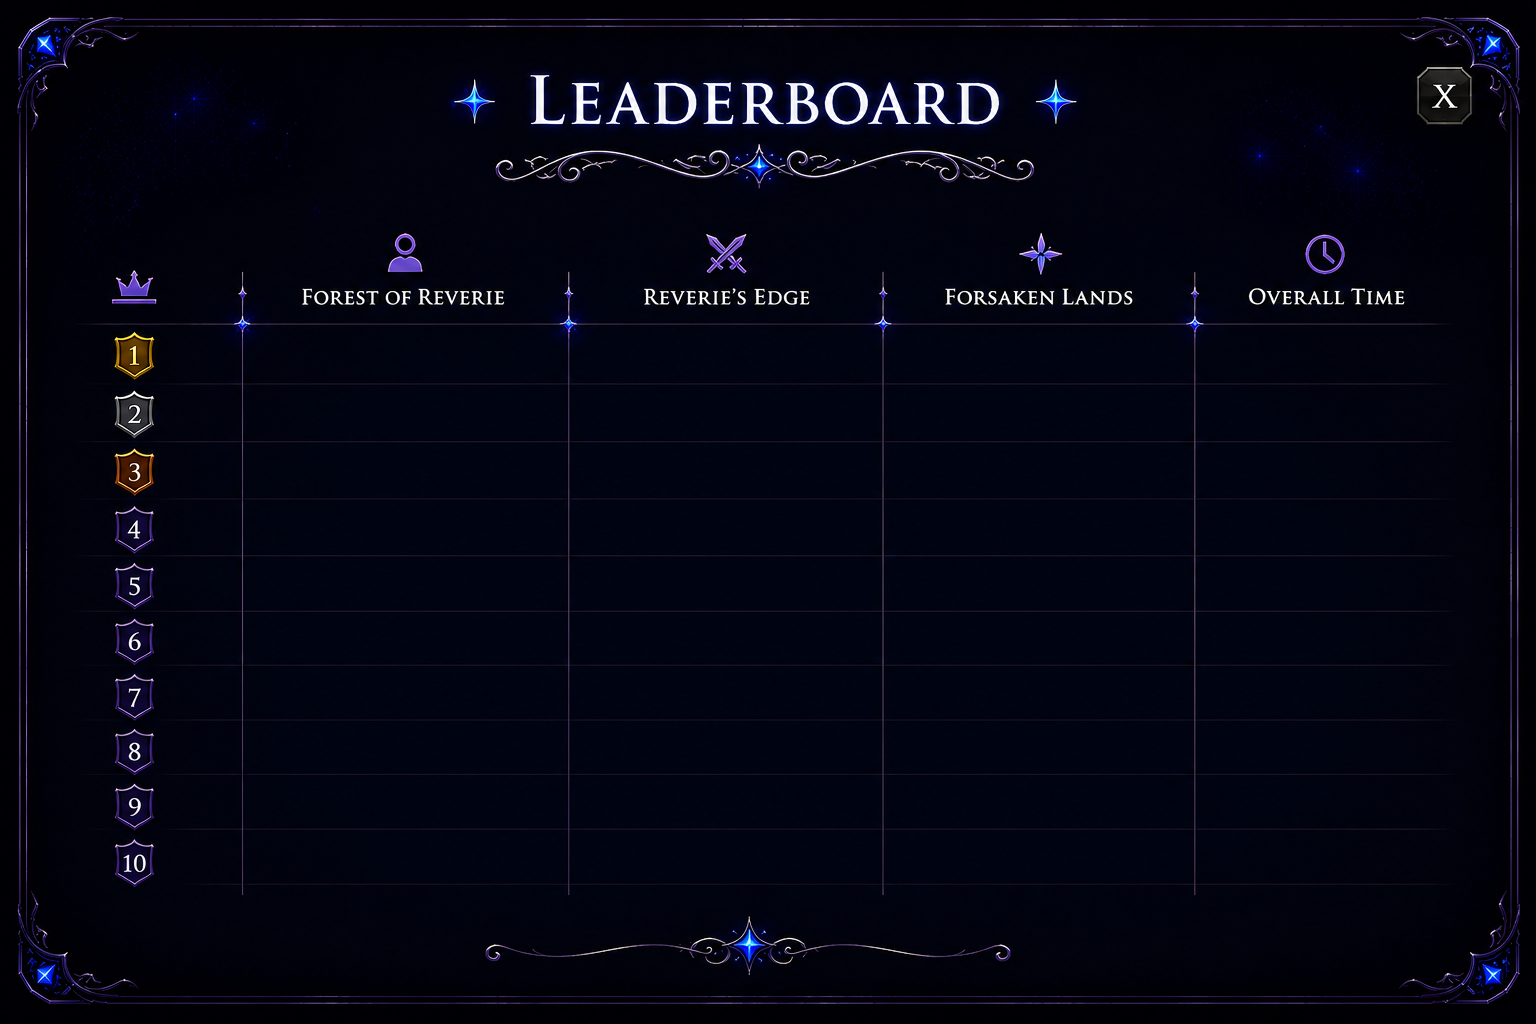
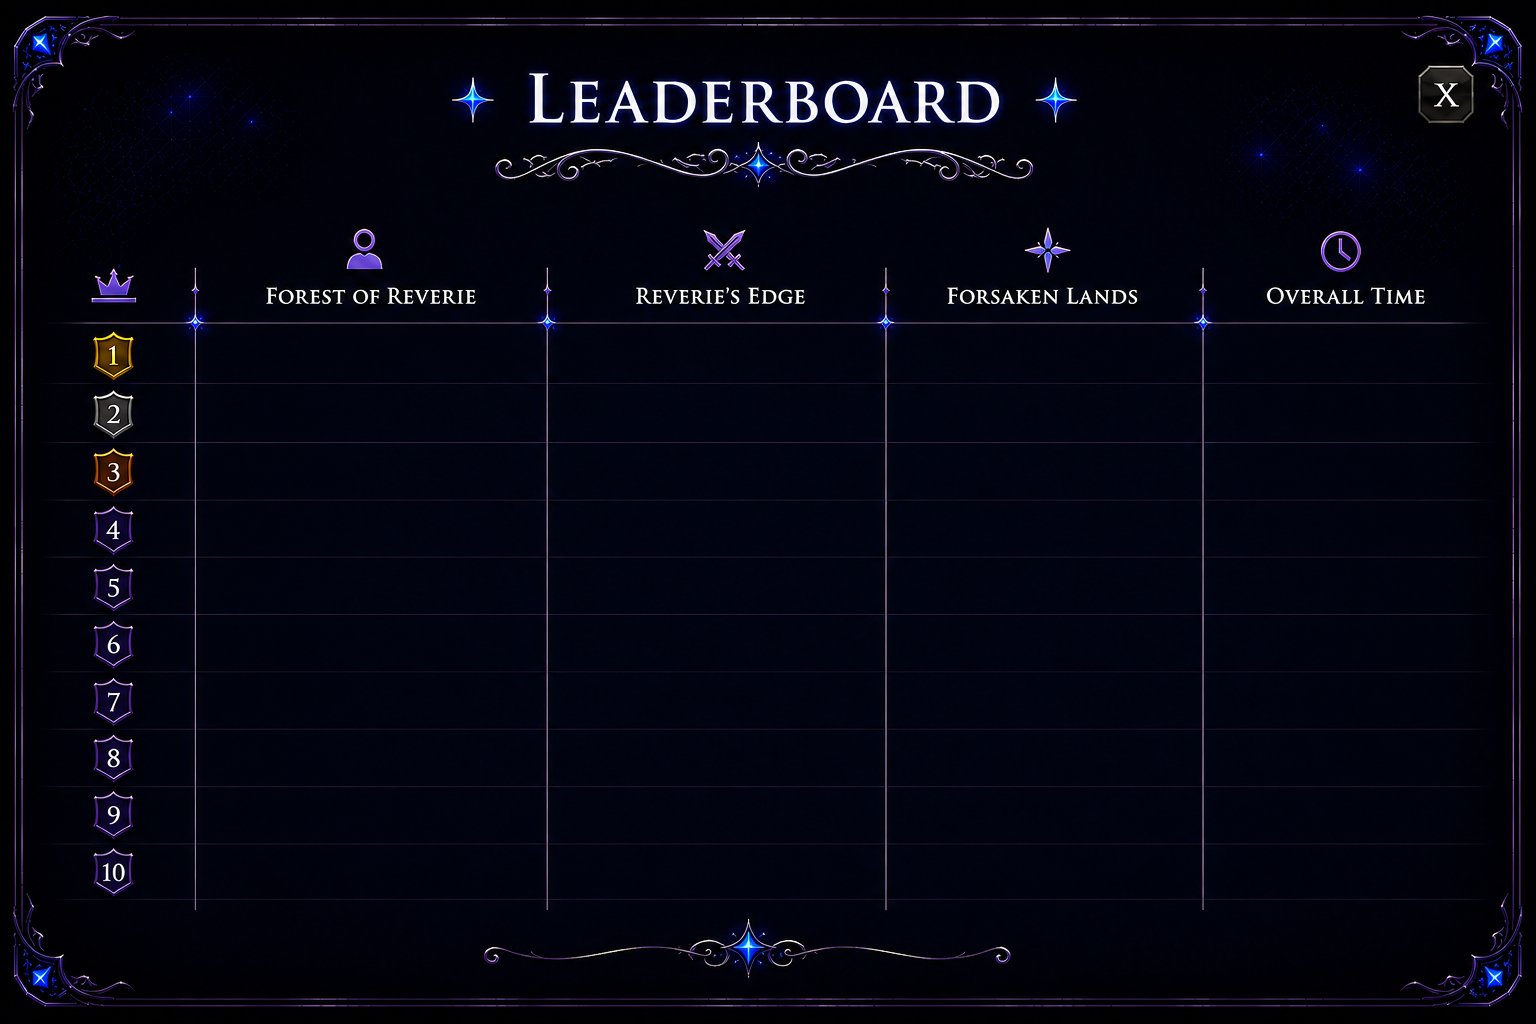
leaderboard
leaderboard

diff --git a/src/com/ror/engine/GameWindowGraphics.java b/src/com/ror/engine/GameWindowGraphics.java
@@ -657,6 +657,11 @@ final class GameWindowGraphics {
         private static final int EDGE_CENTER_X = 742;
         private static final int FORSAKEN_CENTER_X = 1056;
         private static final int OVERALL_CENTER_X = 1330;
+        private static final int RANK_CELL_WIDTH = 76;
+        private static final int FOREST_CELL_WIDTH = 270;
+        private static final int EDGE_CELL_WIDTH = 224;
+        private static final int FORSAKEN_CELL_WIDTH = 224;
+        private static final int OVERALL_CELL_WIDTH = 198;
 
         private final BufferedImage leaderboardImage;
         private final Rectangle closeBounds = new Rectangle();
@@ -792,7 +797,8 @@ final class GameWindowGraphics {
                 drawCellText(g2, String.valueOf(index + 1),
                         drawX + (int) Math.round(RANK_CENTER_X * scaleX),
                         rowCenterY + (int) Math.round(5 * scaleY),
-                        rankFont, new Color(242, 245, 255, 235));
+                        rankFont, new Color(242, 245, 255, 235),
+                        Math.max(28, (int) Math.round(RANK_CELL_WIDTH * scaleX)), 16f);
 
                 drawTwoLineCell(
                         g2,
@@ -801,37 +807,74 @@ final class GameWindowGraphics {
                         drawX + (int) Math.round(FOREST_CENTER_X * scaleX),
                         rowCenterY,
                         nameFont,
-                        timeFont);
+                        timeFont,
+                        Math.max(110, (int) Math.round(FOREST_CELL_WIDTH * scaleX)));
 
                 drawCellText(g2, LeaderboardManager.formatDuration(entry.edgeMillis()),
                         drawX + (int) Math.round(EDGE_CENTER_X * scaleX),
                         rowCenterY + (int) Math.round(5 * scaleY),
-                        timeFont, new Color(242, 245, 255, 232));
+                        timeFont, new Color(242, 245, 255, 232),
+                        Math.max(92, (int) Math.round(EDGE_CELL_WIDTH * scaleX)), 14f);
                 drawCellText(g2, LeaderboardManager.formatDuration(entry.forsakenMillis()),
                         drawX + (int) Math.round(FORSAKEN_CENTER_X * scaleX),
                         rowCenterY + (int) Math.round(5 * scaleY),
-                        timeFont, new Color(242, 245, 255, 232));
+                        timeFont, new Color(242, 245, 255, 232),
+                        Math.max(92, (int) Math.round(FORSAKEN_CELL_WIDTH * scaleX)), 14f);
                 drawCellText(g2, LeaderboardManager.formatDuration(entry.overallMillis()),
                         drawX + (int) Math.round(OVERALL_CENTER_X * scaleX),
                         rowCenterY + (int) Math.round(5 * scaleY),
-                        timeFont, new Color(255, 245, 212, 240));
+                        timeFont, new Color(255, 245, 212, 240),
+                        Math.max(84, (int) Math.round(OVERALL_CELL_WIDTH * scaleX)), 14f);
             }
         }
 
         private void drawTwoLineCell(Graphics2D g2, String topLine, String bottomLine, int centerX, int centerY,
-                Font topFont, Font bottomFont) {
-            drawCellText(g2, topLine, centerX, centerY - 9, topFont, new Color(190, 210, 255, 210));
-            drawCellText(g2, bottomLine, centerX, centerY + 12, bottomFont, new Color(242, 245, 255, 235));
+                Font topFont, Font bottomFont, int maxWidth) {
+            drawCellText(g2, topLine, centerX, centerY - 9, topFont, new Color(190, 210, 255, 210), maxWidth, 9f);
+            drawCellText(g2, bottomLine, centerX, centerY + 12, bottomFont, new Color(242, 245, 255, 235), maxWidth, 14f);
         }
 
-        private void drawCellText(Graphics2D g2, String text, int centerX, int baselineY, Font font, Color color) {
-            g2.setFont(font);
-            FontMetrics metrics = g2.getFontMetrics(font);
-            int drawX = centerX - (metrics.stringWidth(text) / 2);
+        private void drawCellText(Graphics2D g2, String text, int centerX, int baselineY, Font font, Color color,
+                int maxWidth, float minFontSize) {
+            Font fittedFont = fitFontToWidth(g2, font, text, maxWidth, minFontSize);
+            String fittedText = ellipsizeText(g2, text, fittedFont, maxWidth);
+            g2.setFont(fittedFont);
+            FontMetrics metrics = g2.getFontMetrics(fittedFont);
+            int drawX = centerX - (metrics.stringWidth(fittedText) / 2);
             g2.setColor(new Color(9, 12, 28, 180));
-            g2.drawString(text, drawX + 1, baselineY + 1);
+            g2.drawString(fittedText, drawX + 1, baselineY + 1);
             g2.setColor(color);
-            g2.drawString(text, drawX, baselineY);
+            g2.drawString(fittedText, drawX, baselineY);
+        }
+
+        private Font fitFontToWidth(Graphics2D g2, Font baseFont, String text, int maxWidth, float minFontSize) {
+            Font candidate = baseFont;
+            FontMetrics metrics = g2.getFontMetrics(candidate);
+            while (metrics.stringWidth(text) > maxWidth && candidate.getSize2D() > minFontSize) {
+                candidate = candidate.deriveFont(Math.max(minFontSize, candidate.getSize2D() - 1f));
+                metrics = g2.getFontMetrics(candidate);
+            }
+            return candidate;
+        }
+
+        private String ellipsizeText(Graphics2D g2, String text, Font font, int maxWidth) {
+            FontMetrics metrics = g2.getFontMetrics(font);
+            if (metrics.stringWidth(text) <= maxWidth) {
+                return text;
+            }
+
+            String ellipsis = "...";
+            int ellipsisWidth = metrics.stringWidth(ellipsis);
+            if (ellipsisWidth >= maxWidth) {
+                return ellipsis;
+            }
+
+            StringBuilder builder = new StringBuilder(text);
+            while (builder.length() > 0
+                    && metrics.stringWidth(builder + ellipsis) > maxWidth) {
+                builder.deleteCharAt(builder.length() - 1);
+            }
+            return builder + ellipsis;
         }
     }
 

diff --git a/src/com/ror/engine/GameWindow.java b/src/com/ror/engine/GameWindow.java
@@ -2402,6 +2402,11 @@ public class GameWindow implements BattlePanel.BattleActionListener {
                 private static final int EDGE_CENTER_X = 742;
                 private static final int FORSAKEN_CENTER_X = 1056;
                 private static final int OVERALL_CENTER_X = 1330;
+                private static final int RANK_CELL_WIDTH = 76;
+                private static final int FOREST_CELL_WIDTH = 270;
+                private static final int EDGE_CELL_WIDTH = 224;
+                private static final int FORSAKEN_CELL_WIDTH = 224;
+                private static final int OVERALL_CELL_WIDTH = 198;
                 private final Rectangle closeBounds = new Rectangle();
                 private boolean hoveringClose;
 
@@ -2504,27 +2509,33 @@ public class GameWindow implements BattlePanel.BattleActionListener {
                         drawLeaderboardCellText(g2, String.valueOf(index + 1),
                                 drawX + (int) Math.round(RANK_CENTER_X * scaleX),
                                 rowCenterY + (int) Math.round(5 * scaleY),
-                                rankFont, new Color(242, 245, 255, 235));
+                                rankFont, new Color(242, 245, 255, 235),
+                                Math.max(28, (int) Math.round(RANK_CELL_WIDTH * scaleX)), 16f);
                         drawLeaderboardCellText(g2, entry.heroName(),
                                 drawX + (int) Math.round(FOREST_CENTER_X * scaleX),
                                 rowCenterY - 9,
-                                nameFont, new Color(190, 210, 255, 210));
+                                nameFont, new Color(190, 210, 255, 210),
+                                Math.max(110, (int) Math.round(FOREST_CELL_WIDTH * scaleX)), 9f);
                         drawLeaderboardCellText(g2, LeaderboardManager.formatDuration(entry.forestMillis()),
                                 drawX + (int) Math.round(FOREST_CENTER_X * scaleX),
                                 rowCenterY + 12,
-                                timeFont, new Color(242, 245, 255, 235));
+                                timeFont, new Color(242, 245, 255, 235),
+                                Math.max(110, (int) Math.round(FOREST_CELL_WIDTH * scaleX)), 14f);
                         drawLeaderboardCellText(g2, LeaderboardManager.formatDuration(entry.edgeMillis()),
                                 drawX + (int) Math.round(EDGE_CENTER_X * scaleX),
                                 rowCenterY + (int) Math.round(5 * scaleY),
-                                timeFont, new Color(242, 245, 255, 232));
+                                timeFont, new Color(242, 245, 255, 232),
+                                Math.max(92, (int) Math.round(EDGE_CELL_WIDTH * scaleX)), 14f);
                         drawLeaderboardCellText(g2, LeaderboardManager.formatDuration(entry.forsakenMillis()),
                                 drawX + (int) Math.round(FORSAKEN_CENTER_X * scaleX),
                                 rowCenterY + (int) Math.round(5 * scaleY),
-                                timeFont, new Color(242, 245, 255, 232));
+                                timeFont, new Color(242, 245, 255, 232),
+                                Math.max(92, (int) Math.round(FORSAKEN_CELL_WIDTH * scaleX)), 14f);
                         drawLeaderboardCellText(g2, LeaderboardManager.formatDuration(entry.overallMillis()),
                                 drawX + (int) Math.round(OVERALL_CENTER_X * scaleX),
                                 rowCenterY + (int) Math.round(5 * scaleY),
-                                timeFont, new Color(255, 245, 212, 240));
+                                timeFont, new Color(255, 245, 212, 240),
+                                Math.max(84, (int) Math.round(OVERALL_CELL_WIDTH * scaleX)), 14f);
                     }
 
                     g2.dispose();
@@ -2540,14 +2551,47 @@ public class GameWindow implements BattlePanel.BattleActionListener {
         });
     }
 
-    private void drawLeaderboardCellText(Graphics2D g2, String text, int centerX, int baselineY, Font font, Color color) {
-        g2.setFont(font);
-        FontMetrics metrics = g2.getFontMetrics(font);
-        int drawX = centerX - (metrics.stringWidth(text) / 2);
+    private void drawLeaderboardCellText(Graphics2D g2, String text, int centerX, int baselineY, Font font, Color color,
+            int maxWidth, float minFontSize) {
+        Font fittedFont = fitLeaderboardFontToWidth(g2, font, text, maxWidth, minFontSize);
+        String fittedText = ellipsizeLeaderboardText(g2, text, fittedFont, maxWidth);
+        g2.setFont(fittedFont);
+        FontMetrics metrics = g2.getFontMetrics(fittedFont);
+        int drawX = centerX - (metrics.stringWidth(fittedText) / 2);
         g2.setColor(new Color(9, 12, 28, 180));
-        g2.drawString(text, drawX + 1, baselineY + 1);
+        g2.drawString(fittedText, drawX + 1, baselineY + 1);
         g2.setColor(color);
-        g2.drawString(text, drawX, baselineY);
+        g2.drawString(fittedText, drawX, baselineY);
+    }
+
+    private Font fitLeaderboardFontToWidth(Graphics2D g2, Font baseFont, String text, int maxWidth, float minFontSize) {
+        Font candidate = baseFont;
+        FontMetrics metrics = g2.getFontMetrics(candidate);
+        while (metrics.stringWidth(text) > maxWidth && candidate.getSize2D() > minFontSize) {
+            candidate = candidate.deriveFont(Math.max(minFontSize, candidate.getSize2D() - 1f));
+            metrics = g2.getFontMetrics(candidate);
+        }
+        return candidate;
+    }
+
+    private String ellipsizeLeaderboardText(Graphics2D g2, String text, Font font, int maxWidth) {
+        FontMetrics metrics = g2.getFontMetrics(font);
+        if (metrics.stringWidth(text) <= maxWidth) {
+            return text;
+        }
+
+        String ellipsis = "...";
+        int ellipsisWidth = metrics.stringWidth(ellipsis);
+        if (ellipsisWidth >= maxWidth) {
+            return ellipsis;
+        }
+
+        StringBuilder builder = new StringBuilder(text);
+        while (builder.length() > 0
+                && metrics.stringWidth(builder + ellipsis) > maxWidth) {
+            builder.deleteCharAt(builder.length() - 1);
+        }
+        return builder + ellipsis;
     }
 
     private void refreshAreaButtons() {